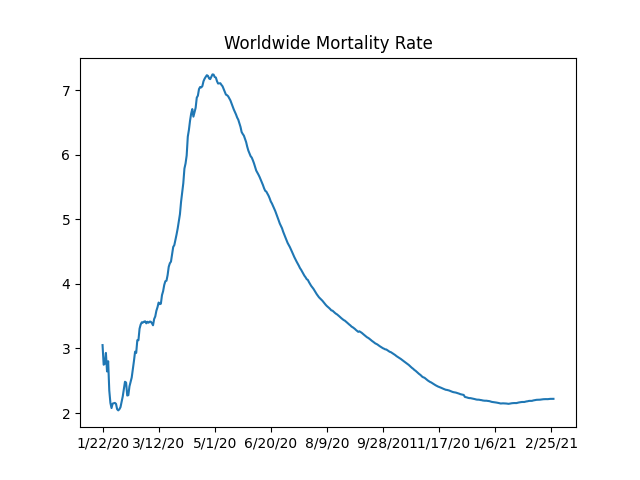
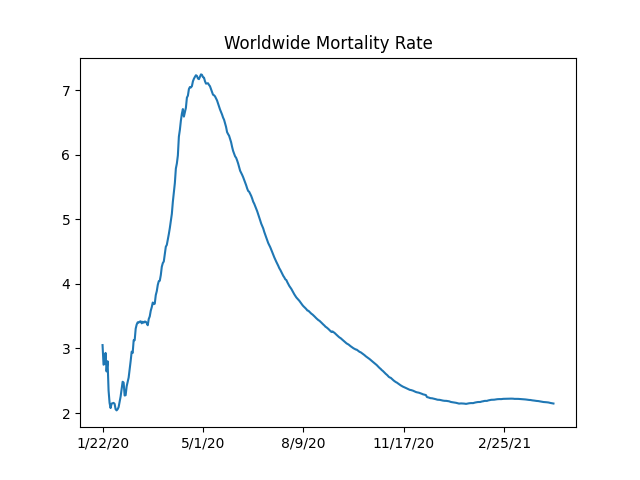
-

Changed region(s): [[0.1562, 0.1562, 0.625, 0.875], [0.1875, 0.9062, 0.9062, 0.9375], [0.5938, 0.75, 0.875, 0.8438]]

diff --git a/en/2020/02/corona.md b/en/2020/02/corona.md
@@ -2,6 +2,15 @@
 
 # Mortality Rate
 
+Fatality / Cases ratio is around 3%, the cases is for people with
+symptoms. What would be the fatality rate for the broader population?
+On one of those cruise ships which experienced the epidemic in an
+isolated environment, they found about 30% of the people were
+infected. We can assume the virus reached everyone possible on that
+ship. 30% of 3% is nearly 1%. So if given the chance, covid can kill
+1% of an entire population. As a reference point, annual growth of
+world population hovers around 1% as well.
+
 Code is from [2]
 
 <a mame='mortality'/>
@@ -14,10 +23,10 @@ plt.savefig('mort.png')
 ```
 
 ```text
-2/24/21    2.218918
-2/25/21    2.219109
-2/26/21    2.219643
-2/27/21    2.219455
+4/12/21    2.155482
+4/13/21    2.152956
+4/14/21    2.150022
+4/15/21    2.146887
 Name: deaths / 100 confirmed, dtype: float64
 ```
 
@@ -80,17 +89,17 @@ print (df[['Germany +','UK +','US +']].tail(10))
 ```
 
 ```text
-Country/Region  Germany +     UK +      US +
-2/18/21            9845.0  12095.0   69266.0
-2/19/21            9050.0  12099.0  106355.0
-2/20/21            7162.0  10453.0   71510.0
-2/21/21            6094.0   9835.0   56495.0
-2/22/21            4984.0  10659.0   56044.0
-2/23/21            5764.0   8523.0   71436.0
-2/24/21           10774.0   9947.0   74502.0
-2/25/21           11032.0  10020.0   77291.0
-2/26/21            9437.0   8588.0   73006.0
-2/27/21            7671.0   7457.0   68071.0
+Country/Region  Germany +    UK +     US +
+4/6/21             7593.0  2404.0  60544.0
+4/7/21            30377.0  2797.0  75038.0
+4/8/21            26510.0  3124.0  79878.0
+4/9/21            23935.0 -4787.0  82698.0
+4/10/21           18728.0  2713.0  66535.0
+4/11/21            2706.0  1730.0  46380.0
+4/12/21           12446.0  3686.0  70230.0
+4/13/21           29421.0  2505.0  77878.0
+4/14/21           31117.0  2529.0  75375.0
+4/15/21           25110.0  2766.0  74289.0
 ```
 
 <a name='Rt'/>
@@ -116,11 +125,11 @@ plt.savefig('Rt-US.png')
 ```
 
 ```text
-195    1.017378
-196    1.017080
-197    1.016888
-198    1.016570
-199    1.016272
+195    1.013563
+196    1.013634
+197    1.013765
+198    1.013877
+199    1.013940
 Name: 1, dtype: float64
 ```
 

diff --git a/en/tweets/2020/week37.md b/en/tweets/2020/week37.md
@@ -469,14 +469,6 @@ content...
 
 ---
 
-@davidsirota
-
-A thought: Making the oligarchic ruling class more diverse should be a
-lower priority than ending the existence of an oligarchic ruling
-class.
-
----
-
 <blockquote class="twitter-tweet"><p lang="en" dir="ltr">BOSCH to start series manufacturing of 100 kW heavy duty PEM fuel cell stack in Bamberg, Germany, by 2022/2023 [in German: <a href="https://t.co/bImW8iphcm">https://t.co/bImW8iphcm</a>] and in the long-term sees 20% of all EVs being FCEVs (cars, buses, trucks) and advocates rapid ramp-up of green H2 production NOW.</p>&mdash; Reiner (@H2FCEV) <a href="https://twitter.com/H2FCEV/status/1303062615070044160?ref_src=twsrc%5Etfw">September 7, 2020</a></blockquote> <script async src="https://platform.twitter.com/widgets.js" charset="utf-8"></script>
 
 ---
@@ -491,14 +483,6 @@ My youngest hacked our Netflix parental code. She put light grease on
 the remote and got me to input the code when she wasn’t looking. Then
 she noted the numbers I’d pressed and went through the combinations
 later. I’m both frightened and impressed"
-
----
-
-"@davidsirota
-
-Find a life partner as loyal to you as Andrew Cuomo is loyal to his big donors
-
-'Tax the Ultrarich? Cuomo Resists, Even With a $14 Billion Budget Gap -- nytimes.com'"
 
 ---
 

diff --git a/en/tweets/2020/week39.md b/en/tweets/2020/week39.md
@@ -67,10 +67,6 @@ really fast"
 
 ---
 
-<blockquote class="twitter-tweet"><p lang="en" dir="ltr">The old “normal” was bad because in the old “normal” a financial crisis destroyed millions of lives, people were being bankrupted by health insurers and the climate crisis was destroying the ecosystem. <br><br>We need to do something more than just going back to that old “normal.” <a href="https://t.co/svXd6M8GPX">https://t.co/svXd6M8GPX</a></p>&mdash; David Sirota (@davidsirota) <a href="https://twitter.com/davidsirota/status/1309207348058095617?ref_src=twsrc%5Etfw">September 24, 2020</a></blockquote> <script async src="https://platform.twitter.com/widgets.js" charset="utf-8"></script>
-
----
-
 The downside is if there is too much change, the sensors are
 overloaded, the result: future shock.
 
@@ -602,15 +598,6 @@ Country/Region  Germany +  Germany %    UK +      UK %
 Looks like higher than average, yes.
 
 [Link](../../2020/02/corona.md#daily)
-
----
-
-"@davidsirota
-
-Sorta feel like our future is Tatooine — it’s hot and dry and all the
-gadgets are super cool but decaying and dusty and the place is run by
-local gangsters with a national government that is just a stormtrooper
-militia but provides no public services"
 
 ---
 

diff --git a/en/tweets/2020/week19.md b/en/tweets/2020/week19.md
@@ -891,14 +891,6 @@ do anything against their class interest.
 
 ---
 
-"@davidsirota
-
-There’s something deeply wrong when a state’s governor gets more
-positive press and becomes more popular as he cuts Medicaid and his
-state leads the world in pandemic deaths"
-
----
-
 <blockquote class="twitter-tweet"><p lang="en" dir="ltr">BREAKING: <a href="https://twitter.com/GovJVentura?ref_src=twsrc%5Etfw">@GovJVentura</a> becomes a member of <a href="https://twitter.com/GreenPartyMN?ref_src=twsrc%5Etfw">@GreenPartyMN</a> as co-chair <a href="https://twitter.com/TrahernCrews?ref_src=twsrc%5Etfw">@TrahernCrews</a> looks on. It&#39;s coming!! <a href="https://twitter.com/hashtag/Ventura2020?src=hash&amp;ref_src=twsrc%5Etfw">#Ventura2020</a> <a href="https://twitter.com/hashtag/VforVentura?src=hash&amp;ref_src=twsrc%5Etfw">#VforVentura</a> <a href="https://t.co/xVLlxPmmIr">pic.twitter.com/xVLlxPmmIr</a></p>&mdash; Neil Jones (@dneiljones813) <a href="https://twitter.com/dneiljones813/status/1256630393509462018?ref_src=twsrc%5Etfw">May 2, 2020</a></blockquote> <script async src="https://platform.twitter.com/widgets.js" charset="utf-8"></script>
 
 ---

diff --git a/en/tweets/2020/week46.md b/en/tweets/2020/week46.md
@@ -536,10 +536,6 @@ of all governments."
 
 ---
 
-<blockquote class="twitter-tweet"><p lang="en" dir="ltr">The Lincoln Project&#39;s founder is angry that The <a href="https://twitter.com/dailyposter?ref_src=twsrc%5Etfw">@DailyPoster</a> published this report on how ineffective their ads were, and how they incinerated $67 million of liberals&#39; money that coulda gone to help Dems win state legislatures in advance of redistricting: <a href="https://t.co/WTn7cqyKHk">https://t.co/WTn7cqyKHk</a> <a href="https://t.co/0ft2gGOHPQ">https://t.co/0ft2gGOHPQ</a></p>&mdash; David Sirota (@davidsirota) <a href="https://twitter.com/davidsirota/status/1325487694625927173?ref_src=twsrc%5Etfw">November 8, 2020</a></blockquote> <script async src="https://platform.twitter.com/widgets.js" charset="utf-8"></script>
-
----
-
 "@ryanobles
 
 Because it took longer than normal to count the votes, there is the

diff --git a/en/tweets/2019/week46.md b/en/tweets/2019/week46.md
@@ -412,11 +412,6 @@ win a state-wide race. His record as mayor is not exactly stellar"
 
 ---
 
-<blockquote class="twitter-tweet"><p lang="und" dir="ltr"><a href="https://twitter.com/hashtag/OKBillionaire?src=hash&amp;ref_src=twsrc%5Etfw">#OKBillionaire</a> <a href="https://t.co/R3moRDaDTl">https://t.co/R3moRDaDTl</a></p>&mdash; David Sirota (@davidsirota) <a href="https://twitter.com/davidsirota/status/1193278187339272192?ref_src=twsrc%5Etfw">November 9, 2019</a></blockquote> <script async src="https://platform.twitter.com/widgets.js" charset="utf-8"></script>
-
----
-
-
 That's hilarious
 
 "@lopp

diff --git a/en/tweets/2020/week25.md b/en/tweets/2020/week25.md
@@ -542,17 +542,6 @@ November"
 
 ---
 
-"@davidsirota
-
-NEWS: Trump just quietly gave private equity a huge gift that could
-transfer hundreds of billions of dollars from workers to Wall Street
-billionaires.
-
-The move followed a $3 MILLION super PAC donation from the private
-equity mogul pushing for the change"
-
----
-
 "Australian hydrogen generation set to soar with Sydney-based Amtronics"
 
 ---

diff --git a/en/tweets/2019/week36.md b/en/tweets/2019/week36.md
@@ -579,10 +579,6 @@ Willetts. 'They just think: who’s the gambler?' "
 
 ---
 
-[BERN NOTICE](https://mobile.twitter.com/davidsirota/status/1167839033382195200)
-
----
-
 "@premnsikka
 
 The Rentier Class: Hedge funds make £7bn bet against pound as Brexit
